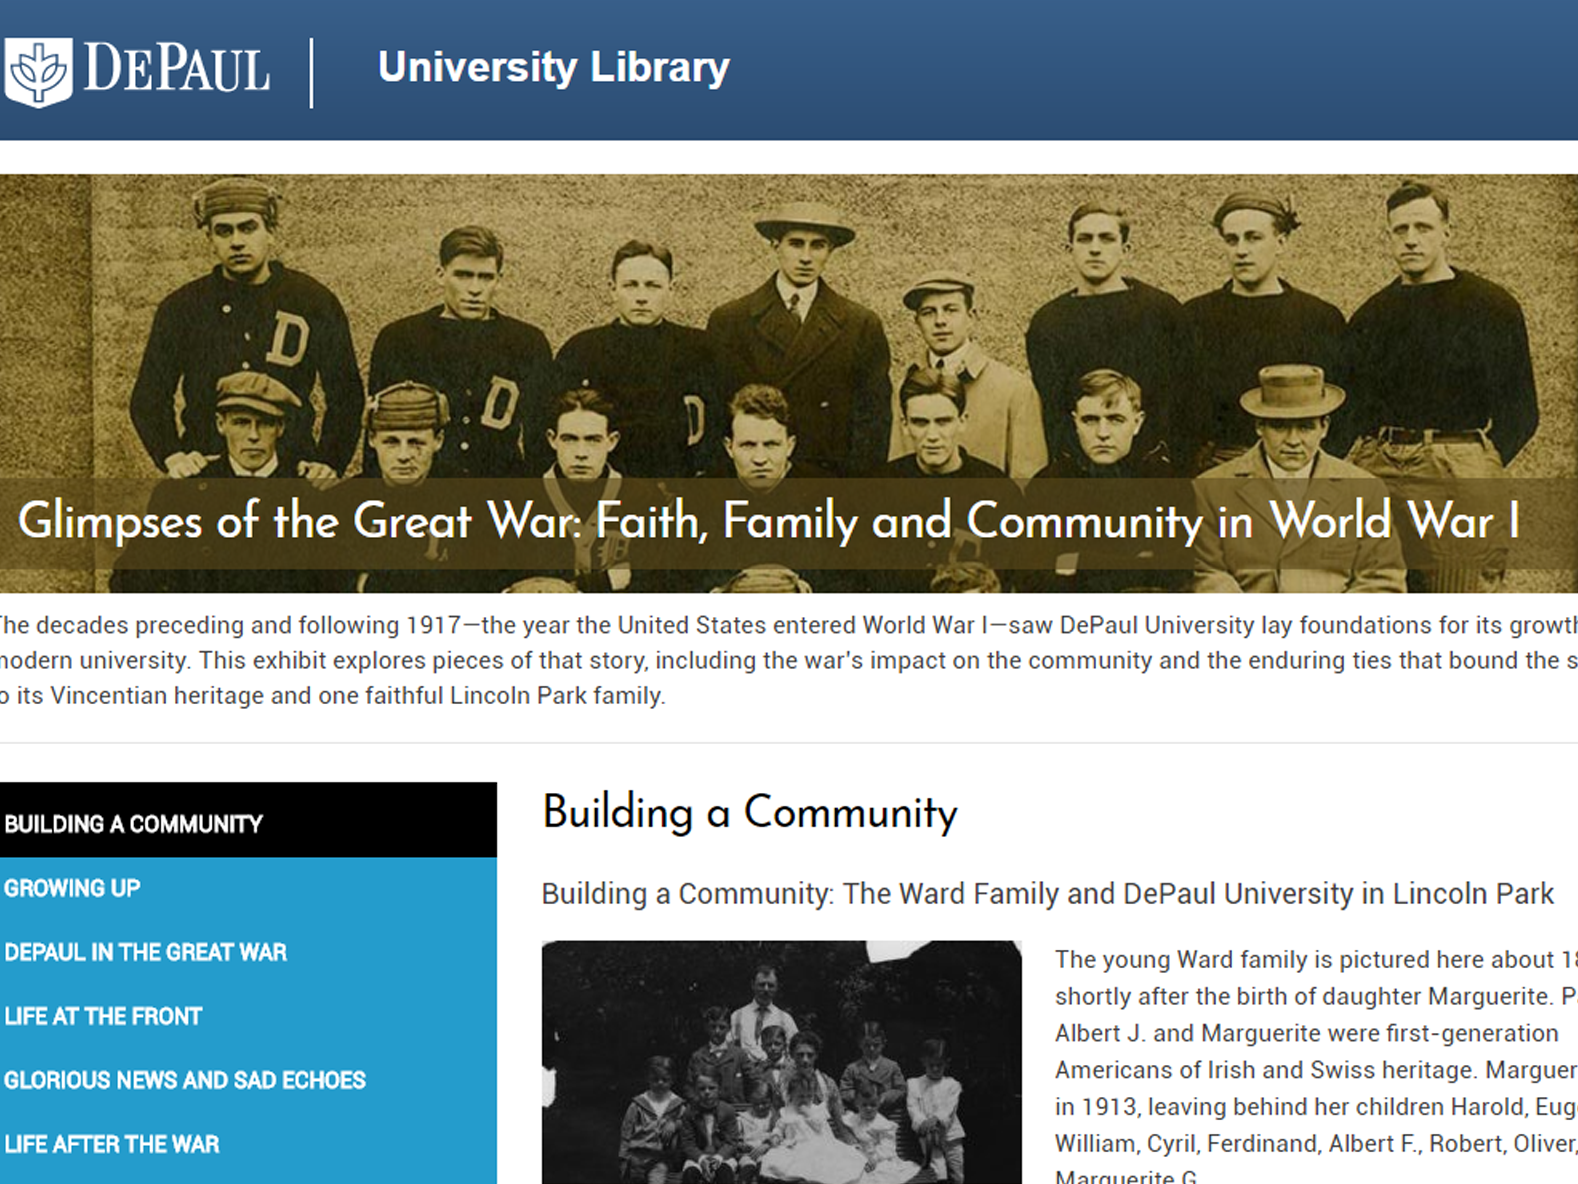
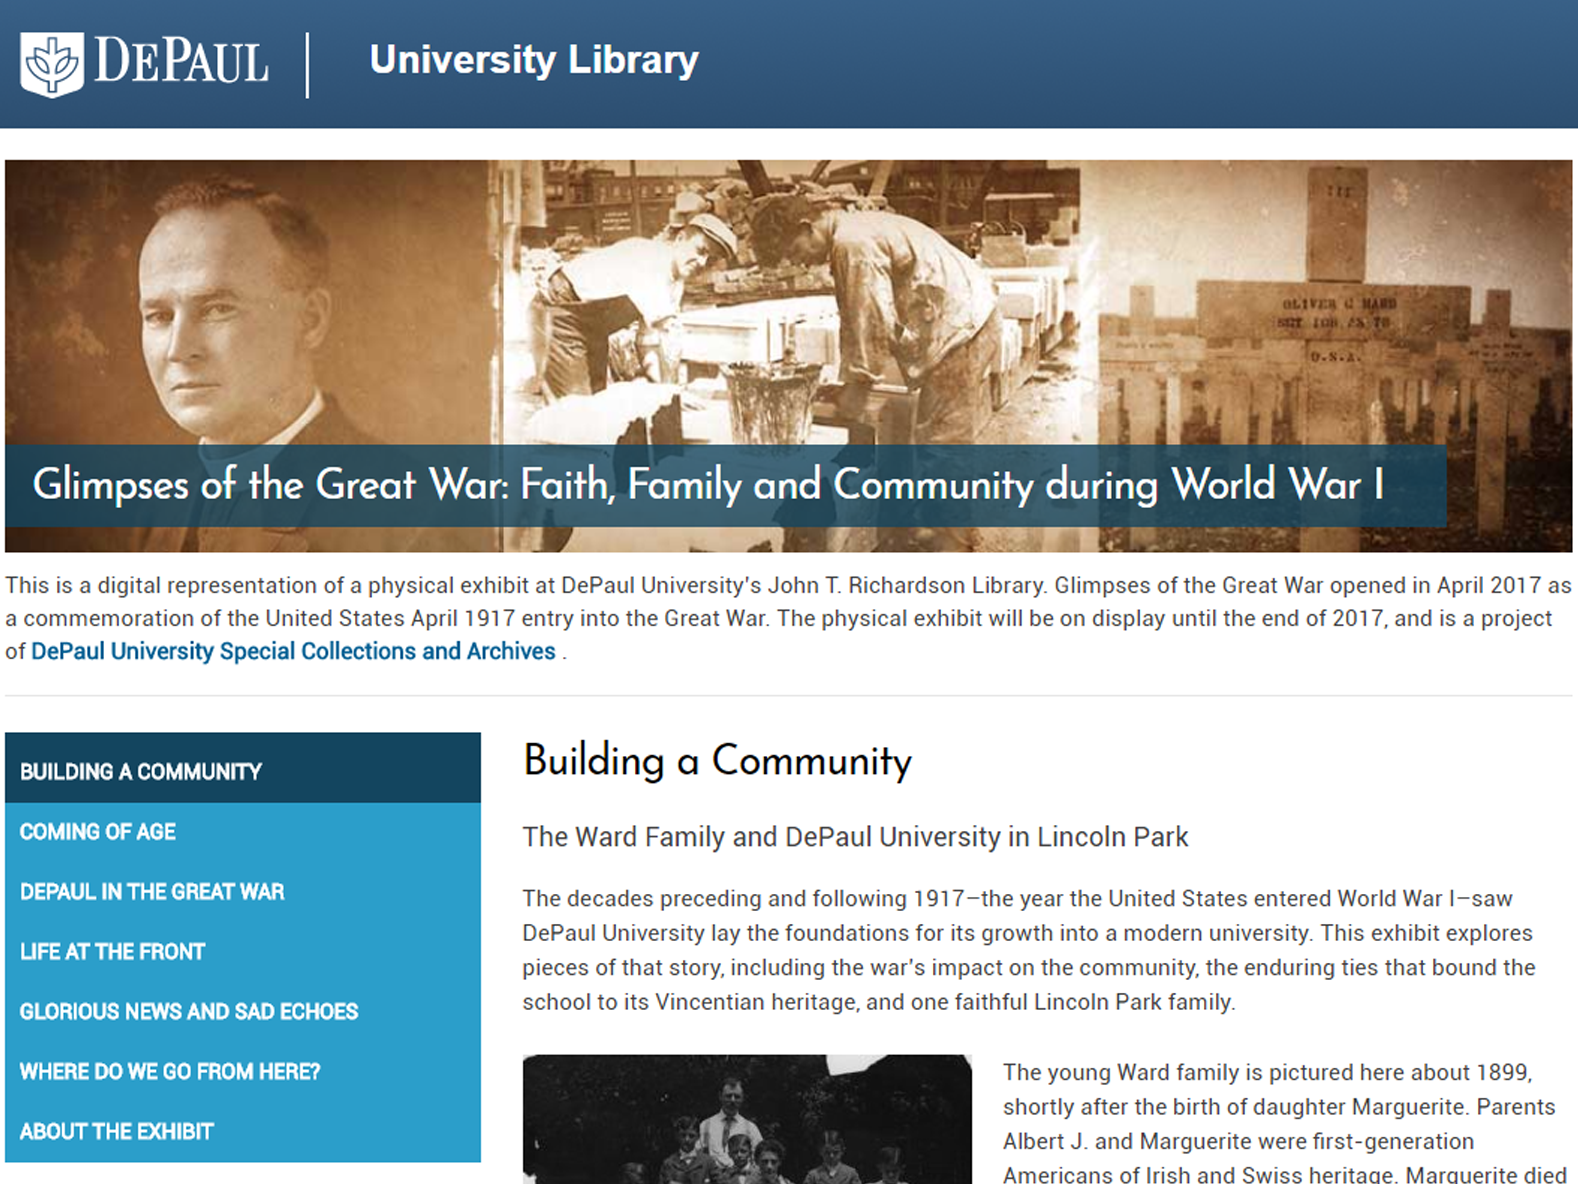
Final changes before website launching.

diff --git a/greatwar/style.css b/greatwar/style.css
@@ -3,14 +3,18 @@ Theme Name: Glimpses of the Great War - Child Theme
 Template: matata
 Author: JusThemes
 Description: Child theme for the Matata theme
-Version: 1.803
-Updated: 2017-09-19 09:51:03
+Version: 1.34
+Updated: 2017-10-06 11:00:00
 */
 @import url('../matata/style.css');
-@import url('../matata-child-theme-0102/style.css');
+@import url('matata-child-theme-0102.css');
 @import url('https://fonts.googleapis.com/css?family=Source+Sans+Pro:400,600,400italic,600italic|Open+Sans+Condensed:300,700,300italic');
 
 body {font-family: 'Roboto', sans-serif;}
+button, input[type="button"], input[type="reset"], input[type="submit"] {
+    background: #114360;
+}
+a {color: #005c96;}
 p {font-size: 1.1em;}
 h1,
 .site-title a {
@@ -20,24 +24,36 @@ h1,
 }
 .entry-header h1 {color: #000;}
 .site-title {
-    font-size: 2.2em;
+    font-size: 2.0em;
     line-height: 1;
     margin: -78px 0 30px 0;
-    background-color: rgba(91,73,27,0.6);
+    background-color: rgba(17,67,96, .80);
     position: relative;
     padding: 12px 0 12px 18px;
+	width: 92%;
 }
 h2 {font-size: 1.3em;}
 
 .site-description {
-    font-size: 1.1em;
+    font-size: 1.10em;
     line-height: 22px;
-	border-bottom: 1px solid #e5e5e5;
-	border-top: 0;
-	margin-top: -16px;
+    border-bottom: 1px solid #e5e5e5;
+    border-top: 0;
+    margin-top: -12px;
     padding-top: 10px;
     padding-bottom: 18px;
     margin-bottom: 14px;
+}
+
+.site-description a {
+    color: #005c96;
+    font-weight: 600;
+  	-webkit-transition-duration: 0.5s;
+  	transition-duration: 0.5s;
+}
+.site-description a:hover {
+	color: #fff;	
+	background-color: #005c96;
 }
 
 .site-branding {
@@ -54,7 +70,7 @@ h2 {font-size: 1.3em;}
     width: 33%;
 }
 .main-navigation ul {
-    border-top: 7px solid #000;;
+    border-top: 7px solid #114360;;
     width: 92%;
 }
 .main-navigation li {
@@ -66,14 +82,21 @@ h2 {font-size: 1.3em;}
 .main-navigation .current-menu-item > a,
 .main-navigation .current_page_ancestor > a,
 .main-navigation .current-menu-ancestor > a {
-    background-color: #000;
+    background-color: #114360;
 }
 
 .wp-caption .wp-caption-text {
     font-weight: bold;
     line-height: 16px;
     font-size: 0.9em;
+	text-align:left;
 }
+.entry-content a {
+    color: #005c96;
+    text-decoration: underline;
+    font-weight: 600;
+}
+.entry-content a:hover {text-decoration:none;}
 
 /* Footer */
 #colophon,
@@ -225,5 +248,4 @@ h2 {font-size: 1.3em;}
     	width: 100%;
 	}
 }
-
 

diff --git a/greatwar/header.php b/greatwar/header.php
@@ -33,7 +33,7 @@
 			<a class="depaul-branding" href="http://library.depaul.edu">
 				<span class="depaul-branding">University Library</span></a>
 				
-		      <!--<div class="top-menu">
+		<!--<div class="top-menu">
 				<?php wp_nav_menu( array( 'theme_location' => 'secondary')); ?>
 			</div>-->
 
@@ -60,7 +60,7 @@
 
 			$description = get_bloginfo( 'description', 'display' );
 			if ( $description || is_customize_preview() ) : ?>
-				<p class="site-description"><?php echo $description; /* WPCS: xss ok. */ ?></p>
+				<p class="site-description"><?php echo $description; /* WPCS: xss ok. */ ?><a href="https://library.depaul.edu/special-collections/Pages/default.aspx"> DePaul University Special Collections and Archives </a>.</p>
 			<?php
 			endif; ?>
 		</div><!-- .site-branding -->
